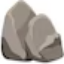
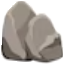
WIP

diff --git a/SnakeGame/Snake/Irons.cs b/SnakeGame/Snake/Irons.cs
@@ -1,0 +1,87 @@
+using System;
+using System.Collections.Generic;
+using System.Drawing;
+using System.Linq;
+using System.Text;
+using System.Threading.Tasks;
+
+namespace SnakeGame.Snake
+{
+    class Irons : ISegmentBehavior
+    {
+        private Random _random;
+
+        public Irons()
+        {
+            _random = new Random();
+        }
+
+        public List<Iron> irons = new List<Iron>();
+
+
+
+
+
+        public void Draw(Graphics graphics)
+        {
+            foreach (var item in irons)
+            {
+                if(item is Iron)
+                    item.Draw(graphics);
+            }
+        }
+        
+
+
+
+        public void AddIron(int width, int hight, Snake snake, Food food)
+        {
+            Iron iron = new Iron();
+            int px = 0;
+            int py = 0;
+
+            bool isValidPosition = false;
+
+            do
+            {
+                px = _random.Next(iron.Radius * 2, width - iron.Radius) / (iron.Radius * 2) * (iron.Radius * 2);
+                py = _random.Next(iron.Radius * 2, hight - iron.Radius) / (iron.Radius * 2) * (iron.Radius * 2);
+
+                bool isNoBodySnakeAndFood = true;
+
+                foreach (Segment item in snake.BodySnake)
+                {
+                    if (item.X == px && item.Y == py && food.X == px && food.Y == py)
+                    {
+                        isNoBodySnakeAndFood = false;
+                        break;
+                    }
+                }
+
+                bool isNoIrons = true;
+
+                foreach(Iron item in irons)
+                {
+                    if(item.X == px && item.Y == py)
+                    {
+                        isNoIrons = false;
+                        break;
+                    }
+                }
+
+                if (isNoBodySnakeAndFood && isNoIrons)
+                {
+                    iron.X = px;
+                    iron.Y = py;
+                    isValidPosition = true;
+                }
+
+
+            } while (!isValidPosition);
+
+            irons.Add(iron);
+        }
+
+
+    }
+}

diff --git a/SnakeGame/Game/GameField.cs b/SnakeGame/Game/GameField.cs
@@ -13,14 +13,15 @@ namespace SnakeGame
     {
         private Timer _timerUpdApple;
         private Timer _timerUpdSnake;
-        
 
+        
         public int GameTickTime = 600;
         private int appleCountEating = 0;
 
         private PictureBox _gameFieldControl;
         
         public Food Food { get; set; }
+        public Irons Irons { get; set; }
         public int Lvl { get; set; }
 
         public int appleCountHowMany = 4;
@@ -54,6 +55,9 @@ namespace SnakeGame
             _snake = new Snake.Snake();
 
             Food = new Food(Snake.Head.Radius);
+
+            Irons = new Irons();
+
             _timerUpdSnake = timerUpdSnake;
         }
 
@@ -61,7 +65,7 @@ namespace SnakeGame
         {
             _snake.Draw(e.Graphics);
             Food.Draw(e.Graphics);
-
+            Irons.Draw(e.Graphics);
         }
 
         public int GetAppleCountEating()
@@ -80,7 +84,8 @@ namespace SnakeGame
                 Food.Respawn(
                              gameFieldControl.Width,
                              gameFieldControl.Height,
-                             Snake);
+                             Snake,
+                             Irons);
                 
                 _timerUpdApple.Stop();
                 _timerUpdApple.Start();
@@ -90,7 +95,11 @@ namespace SnakeGame
                 if (appleCountEating % 3 == 0 && appleCountEating > 0)
                 {
                     Lvl++;
-                    
+
+                    Irons.AddIron(gameFieldControl.Width,
+                             gameFieldControl.Height,
+                             Snake,
+                             Food);
 
                     if (GameTickTime >= 30)
                     {

diff --git a/SnakeGame/Snake/Food.cs b/SnakeGame/Snake/Food.cs
@@ -28,7 +28,7 @@ namespace SnakeGame.Snake
 
         }
 
-        public void Respawn(int width, int hight, Snake snake)
+        public void Respawn(int width, int hight, Snake snake, Irons irons)
         {
             int px = 0; 
             int py = 0;
@@ -51,7 +51,18 @@ namespace SnakeGame.Snake
                     }
                 }
 
-               if(isNoBodySnake)
+                bool isNoIrons = true;
+
+                foreach (Iron item in irons.irons)
+                {
+                    if (item.X == px && item.Y == py)
+                    {
+                        isNoIrons = false;
+                        break;
+                    }
+                }
+
+                if (isNoBodySnake && isNoIrons)
                 {
                     X = px;
                     Y = py;

diff --git a/SnakeGame/MainForm.cs b/SnakeGame/MainForm.cs
@@ -47,8 +47,6 @@ namespace SnakeGame
             toolStripTextBoxAppleByNextLVL.Text = _gameField.appleCountHowMany.ToString();
 
 
-
-
             if (_gameField.Snake.Head.isCanMove(_gameField.gameFieldControl.Width, _gameField.gameFieldControl.Height))
             {
                 if (_gameField.Snake.isEatingHimSelf() == false)
@@ -202,7 +200,8 @@ namespace SnakeGame
             {
                 _gameField.Food.Respawn(_gameField.gameFieldControl.Width,
                              _gameField.gameFieldControl.Height,
-                             _gameField.Snake);
+                             _gameField.Snake,
+                             _gameField.Irons);
                 
             }
         }

diff --git a/SnakeGame/Snake/Iron.cs b/SnakeGame/Snake/Iron.cs
@@ -8,25 +8,18 @@ using System.Threading.Tasks;
 namespace SnakeGame.Snake
 {
     class Iron : Segment, ISegmentBehavior
-    {
-        private Random _random;
-
-        public Iron(int radius)
+    { 
+        public Iron()
         {
-            _random = new Random();
-            Radius = radius;
 
         }
 
         public void Draw(Graphics graphics)
         {
             Bitmap bitmap = new Bitmap(GameResource.Iron);
-
             bitmap.MakeTransparent();
             graphics.DrawImage(bitmap, new Rectangle(this.X - Radius, this.Y - Radius, this.Radius * 2, this.Radius * 2));
-
         }
-
 
 
     }
